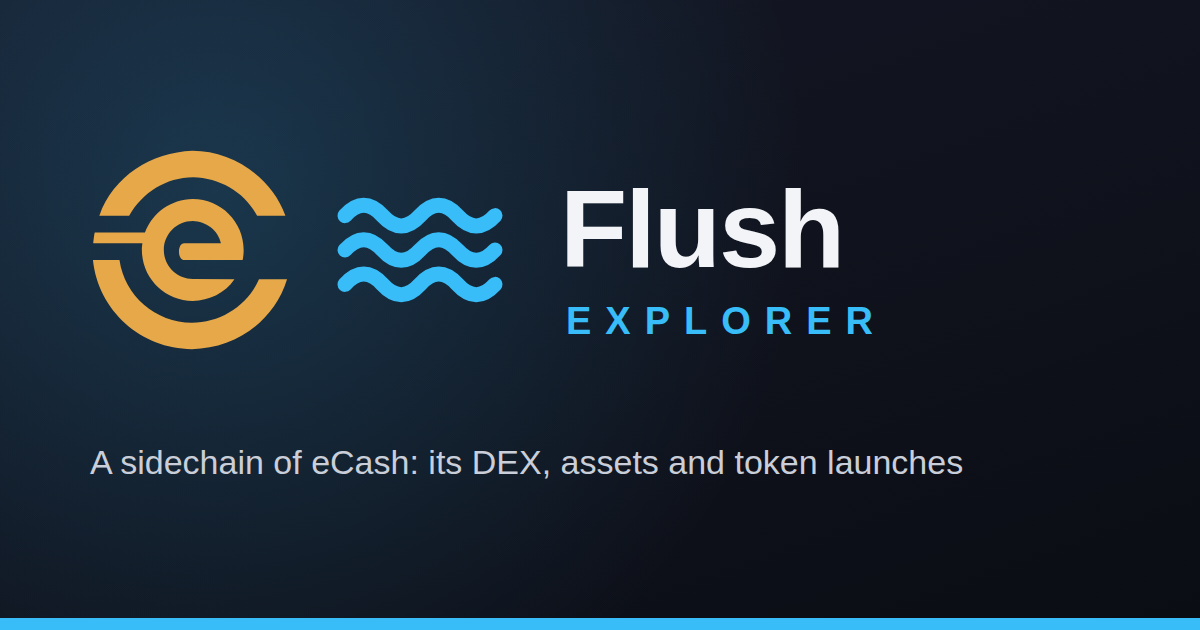
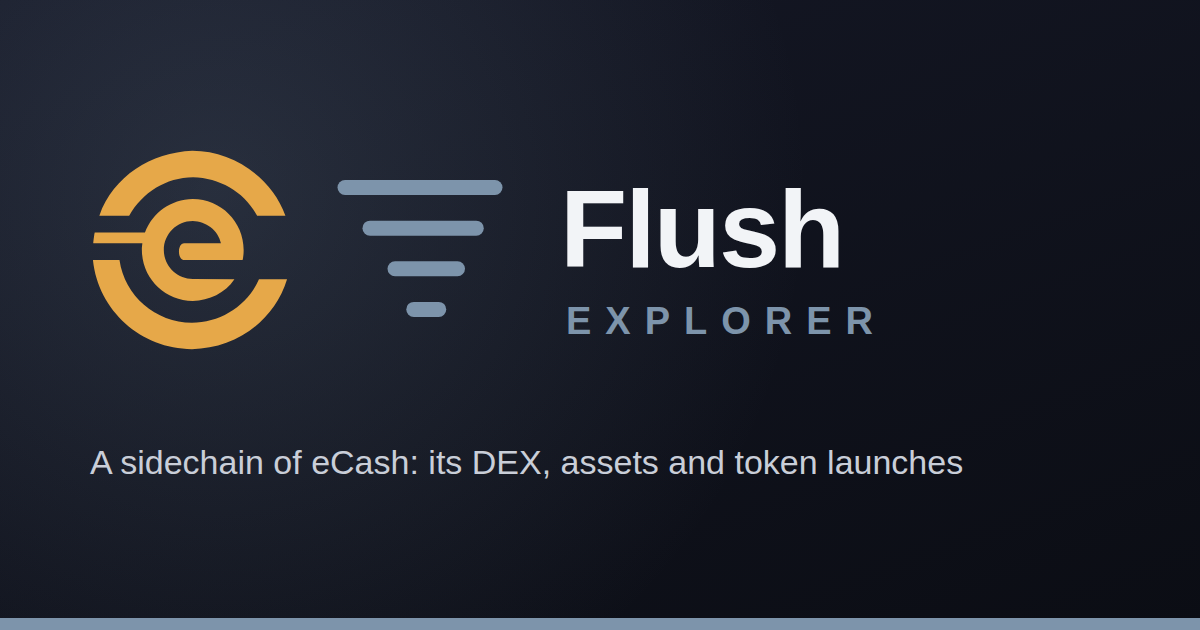
Flush: its own mark (the tornado) and brand colour
The mark of backbone-flush's chain.json (brand.mark, the "tornado": four
bars narrowing downward, as on flush.markets) and its brand blue-grey
#7d94ab, in place of the placeholders: logo, labels, charts, link preview.

Claude-Session: https://claude.ai/code/session_016ScJL4vwUZDmPaBe3oCFtx

Changed region(s): [[0.0, 0.9651, 1.0, 1.0], [0.2775, 0.2714, 0.4317, 0.5127], [0.4625, 0.4825, 0.74, 0.5429]]

diff --git a/frontend/src/app/chain/modules/flush/flush-charts.ts b/frontend/src/app/chain/modules/flush/flush-charts.ts
@@ -124,8 +124,8 @@ export class FlushCandlesComponent implements OnChanges {
         <div class="ya" [style.height.px]="height"><span>{{ fx.price(maxY) }}</span><span>{{ fx.price(maxY / 2) }}</span><span>0</span></div>
         <svg [attr.viewBox]="'0 0 ' + w + ' ' + height" preserveAspectRatio="none" [style.height.px]="height" role="img" [attr.aria-label]="'Bonding curve: ' + fx.pct(progress, 1) + ' of the way to graduation'">
           <line x1="0" [attr.y1]="height - 1" [attr.x2]="w" [attr.y2]="height - 1" stroke="#ffffff22" vector-effect="non-scaling-stroke"/>
-          <path [attr.d]="soldArea" fill="var(--chain-accent, #38bdf8)" fill-opacity="0.28"/>
-          <path [attr.d]="path" fill="none" stroke="var(--chain-accent, #38bdf8)" stroke-width="2.5" vector-effect="non-scaling-stroke"/>
+          <path [attr.d]="soldArea" fill="var(--chain-accent, #7d94ab)" fill-opacity="0.28"/>
+          <path [attr.d]="path" fill="none" stroke="var(--chain-accent, #7d94ab)" stroke-width="2.5" vector-effect="non-scaling-stroke"/>
           <line [attr.x1]="xNow" [attr.x2]="xNow" y1="0" [attr.y2]="height" stroke="var(--fg)" stroke-dasharray="4 4" stroke-width="1.2" vector-effect="non-scaling-stroke"/>
           <line [attr.x1]="0" [attr.x2]="w" [attr.y1]="yNow" [attr.y2]="yNow" stroke="var(--fg)" stroke-opacity="0.35" stroke-dasharray="2 4" stroke-width="1" vector-effect="non-scaling-stroke"/>
           @for (h of hits; track h.x) {<rect class="hit" [attr.x]="h.x" y="0" [attr.width]="h.w" [attr.height]="height"><title>{{ h.tip }}</title></rect>}
@@ -133,7 +133,7 @@ export class FlushCandlesComponent implements OnChanges {
       </div>
       <div class="xa"><span>0 tokens sold</span><span>{{ fx.compact(sale / 2) }}</span><span>{{ fx.compact(sale) }} sold: graduation</span></div>
       <div class="legend">
-        <span><i style="background: var(--chain-accent, #38bdf8)"></i>sold so far: <b>{{ fx.compact(sold) }}</b> tokens for <b>{{ fx.amount(raised, 2) }}</b> of {{ graduation | number }} ECX ({{ fx.pct(progress, 1) }})</span>
+        <span><i style="background: var(--chain-accent, #7d94ab)"></i>sold so far: <b>{{ fx.compact(sold) }}</b> tokens for <b>{{ fx.amount(raised, 2) }}</b> of {{ graduation | number }} ECX ({{ fx.pct(progress, 1) }})</span>
         <span>price now <b>{{ fx.price(priceNow) }}</b> ECX</span>
         <span>start <b>{{ fx.price(priceStart) }}</b> → at graduation <b>{{ fx.price(priceEnd) }}</b> ECX (×{{ (priceEnd / priceStart) | number:'1.0-1' }})</span>
         <span>market value of the supply at graduation <b>{{ fx.compact(priceEnd * supply) }}</b> ECX</span>
@@ -229,13 +229,13 @@ export class FlushCurveComponent implements OnChanges {
         <svg [attr.viewBox]="'0 0 ' + w + ' ' + height" preserveAspectRatio="none" [style.height.px]="height">
           <line x1="0" [attr.y1]="height - 1" [attr.x2]="w" [attr.y2]="height - 1" stroke="#ffffff22" vector-effect="non-scaling-stroke"/>
           @for (b of bars; track b.x) {
-            <rect [attr.x]="b.x" [attr.y]="b.y" [attr.width]="b.bw" [attr.height]="b.h" [attr.fill]="b.active ? 'var(--chain-accent, #38bdf8)' : '#7f8ba0'" [attr.fill-opacity]="b.active ? 0.85 : 0.55"><title>{{ b.tip }}</title></rect>
+            <rect [attr.x]="b.x" [attr.y]="b.y" [attr.width]="b.bw" [attr.height]="b.h" [attr.fill]="b.active ? 'var(--chain-accent, #7d94ab)' : '#7f8ba0'" [attr.fill-opacity]="b.active ? 0.85 : 0.55"><title>{{ b.tip }}</title></rect>
           }
           <line [attr.x1]="xNow" [attr.x2]="xNow" y1="0" [attr.y2]="height" stroke="var(--fg)" stroke-dasharray="4 4" stroke-width="1.2" vector-effect="non-scaling-stroke"><title>{{ nowTip }}</title></line>
         </svg>
       </div>
       <div class="xa"><span>{{ fx.price(pLeft) }}</span><span>{{ fx.price(pRight) }}</span></div>
-      <div class="legend"><span><i style="background: var(--chain-accent, #38bdf8)"></i>in range now</span><span>price now <b>{{ fx.price(pNow) }}</b> {{ unit }} (tick {{ tickNow }})</span><span>tick spacing {{ spacing }}</span><span>liquidity in range {{ fx.compact(lNow) }}</span></div>
+      <div class="legend"><span><i style="background: var(--chain-accent, #7d94ab)"></i>in range now</span><span>price now <b>{{ fx.price(pNow) }}</b> {{ unit }} (tick {{ tickNow }})</span><span>tick spacing {{ spacing }}</span><span>liquidity in range {{ fx.compact(lNow) }}</span></div>
     } @else {
       <p class="empty">No position provides liquidity in this pool.</p>
     }`,

diff --git a/frontend/src/app/chain/modules/flush/views/flush-widget.component.ts b/frontend/src/app/chain/modules/flush/views/flush-widget.component.ts
@@ -24,7 +24,7 @@ const REFRESH = 30000;
   styles: [`
     .kv { width: 100%; font-size: 0.85rem; margin: 0; td { padding: 3px 4px; vertical-align: middle; } td:first-child { color: var(--transparent-fg); } }
     .big-row { flex-wrap: wrap; }
-    .bar { height: 6px; border-radius: 3px; background: #ffffff10; overflow: hidden; min-width: 60px; .fill { height: 100%; background: var(--chain-accent, #38bdf8); } }
+    .bar { height: 6px; border-radius: 3px; background: #ffffff10; overflow: hidden; min-width: 60px; .fill { height: 100%; background: var(--chain-accent, #7d94ab); } }
     .rows { width: 100%; font-size: 0.85rem; td { padding: 3px 4px; vertical-align: middle; } }
     .muted { color: var(--transparent-fg); } .mono { font-family: monospace; } .pos { color: #3bd16f; } .neg { color: #ff6b6b; }
     .pill { display: inline-block; font-size: 0.7rem; padding: 0 7px; border-radius: 10px; background: #ffffff14; }

diff --git a/frontend/src/app/chain/marks.ts b/frontend/src/app/chain/marks.ts
@@ -38,11 +38,9 @@ export const SIDECHAIN_MARKS: Record<string, Pick<ChainProfile, 'mark' | 'markRe
   ] },
   freebank: { mark: ['M4 12 16 5l12 7', 'M6 12h20', 'M6 27h20', 'M9 14v9M14 14v9M18 14v9M23 14v9'] },
   // Flush: water, three waves (a placeholder until Flush has a mark of its own)
-  flush: { mark: [
-    'M4 10.5c2-2.2 4-2.2 6 0s4 2.2 6 0 4-2.2 6 0 4 2.2 6 0',
-    'M4 16c2-2.2 4-2.2 6 0s4 2.2 6 0 4-2.2 6 0 4 2.2 6 0',
-    'M4 21.5c2-2.2 4-2.2 6 0s4 2.2 6 0 4-2.2 6 0 4 2.2 6 0',
-  ] },
+  // Flush's own mark, the "tornado" (backbone-flush src/webui/app/src/chain/chain.json brand.mark;
+  // ~/skydoge/media/flush/mark/variants.json)
+  flush: { mark: ['M4 6h24', 'M8 12.5h17', 'M12 19h10', 'M15 25.5h4'] },
   coinshift: { mark: [
     'M7 16a9 9 0 0 1 15-6.7', 'M22 5v5h-5',
     'M25 16a9 9 0 0 1-15 6.7', 'M10 27v-5h5',

diff --git a/frontend/src/app/chain/modules/flush/pages/stake.pages.ts b/frontend/src/app/chain/modules/flush/pages/stake.pages.ts
@@ -30,7 +30,7 @@ export function keyColor(k: string): string {
     .strip .s.past { opacity: 0.35; } .strip .s.now { outline: 2px solid var(--fg); }
     .strip .s.banned { background: repeating-linear-gradient(45deg, #ff6b6b55, #ff6b6b55 3px, transparent 3px, transparent 6px); }
     .strip .s.none { background: #ffffff14; }
-    .share { display: flex; height: 12px; border-radius: 6px; overflow: hidden; background: #ffffff10; margin: 6px 0; .b { background: #f5b83d; } .v { background: var(--chain-accent, #38bdf8); } }
+    .share { display: flex; height: 12px; border-radius: 6px; overflow: hidden; background: #ffffff10; margin: 6px 0; .b { background: #f5b83d; } .v { background: var(--chain-accent, #7d94ab); } }
   `],
   template: `
   <div class="container-xl mp">

diff --git a/frontend/src/app/chain/modules/flush/flush-page.scss b/frontend/src/app/chain/modules/flush/flush-page.scss
@@ -7,7 +7,7 @@
   label { color: var(--transparent-fg); display: inline-flex; align-items: center; gap: 6px; margin: 0; } }
 .chips { display: flex; flex-wrap: wrap; gap: 4px; }
 .chip { font-size: 0.78rem; padding: 2px 10px; border-radius: 12px; background: #ffffff10; color: var(--transparent-fg); border: none; cursor: pointer;
-  &.on { background: color-mix(in srgb, var(--chain-accent, #38bdf8) 35%, transparent); color: var(--fg); } }
+  &.on { background: color-mix(in srgb, var(--chain-accent, #7d94ab) 35%, transparent); color: var(--fg); } }
 .pill { white-space: nowrap; }
 .pill.ok { background: color-mix(in srgb, #3bd16f 30%, transparent); }
 .pill.warn { background: color-mix(in srgb, #f5b83d 30%, transparent); }

diff --git a/frontend/src/app/chain/modules/flush/pages/dex.pages.ts b/frontend/src/app/chain/modules/flush/pages/dex.pages.ts
@@ -424,6 +424,6 @@ export class FlushTreasuryPage implements OnInit {
   series(t: FlushTreasury): ChartSeries[] {
     const by = (k: 'from_swaps' | 'from_launches', name: string, color: string): ChartSeries =>
       ({ name, color, points: t.inflows.map(i => [i.height, i[k]] as [number, number]) });
-    return [by('from_launches', 'from launches', 'var(--chain-accent, #38bdf8)'), by('from_swaps', 'from swaps', '#f5b83d')];
+    return [by('from_launches', 'from launches', 'var(--chain-accent, #7d94ab)'), by('from_swaps', 'from swaps', '#f5b83d')];
   }
 }

diff --git a/frontend/src/app/chain/modules/flush/index.ts b/frontend/src/app/chain/modules/flush/index.ts
@@ -20,7 +20,7 @@ const peg = () => import('./pages/peg.pages');
 const flush: ChainFrontendModule = {
   profile: {
     id: 'flush', kind: 'flush', name: 'Flush', tagline: 'Flush, tokens, assets and a DEX on a fast sidechain of eCash',
-    unit: 'ECX', subunit: 'sats', slot: 99, mainchain: false, color: '#38bdf8',
+    unit: 'ECX', subunit: 'sats', slot: 99, mainchain: false, color: '#7d94ab', // Flush's brand blue-grey (chain.json brand.color)
     ...SIDECHAIN_MARKS.flush,
     blockWeightUnits: 4000000,
   },

diff --git a/chains/previews.py b/chains/previews.py
@@ -14,7 +14,7 @@ CHAINS = {
     'bitassets': ('BitAssets', '#f5b83d', 'An asset sidechain of eCash', ['M6 9c0-2.2 4.5-4 10-4s10 1.8 10 4-4.5 4-10 4S6 11.2 6 9z', 'M6 9v14c0 2.2 4.5 4 10 4s10-1.8 10-4V9', 'M6 16c0 2.2 4.5 4 10 4s10-1.8 10-4'], []),
     'truthcoin': ('Truthcoin', '#7bd88f', 'A prediction market sidechain of eCash', ['M28 16a12 12 0 1 1-24 0 12 12 0 1 1 24 0', 'M10.5 16.5l3.5 3.5 7-7.5'], []),
     'zside': ('zSide', '#f26b9c', 'A shielded sidechain of eCash', ['M16 4l10 4v7c0 6-4 10.5-10 13-6-2.5-10-7-10-13V8z', 'M16 12a3 3 0 0 0-1 5.8V21h2v-3.2A3 3 0 0 0 16 12z'], []),
-    'flush': ('Flush', '#38bdf8', 'A sidechain of eCash: its DEX, assets and token launches', ['M4 10.5c2-2.2 4-2.2 6 0s4 2.2 6 0 4-2.2 6 0 4 2.2 6 0', 'M4 16c2-2.2 4-2.2 6 0s4 2.2 6 0 4-2.2 6 0 4 2.2 6 0', 'M4 21.5c2-2.2 4-2.2 6 0s4 2.2 6 0 4-2.2 6 0 4 2.2 6 0'], []),
+    'flush': ('Flush', '#7d94ab', 'A sidechain of eCash: its DEX, assets and token launches', ['M4 6h24', 'M8 12.5h17', 'M12 19h10', 'M15 25.5h4'], []),
     'coinshift': ('Coinshift', '#ff8a3d', 'A swap sidechain of eCash', ['M7 16a9 9 0 0 1 15-6.7', 'M22 5v5h-5', 'M25 16a9 9 0 0 1-15 6.7', 'M10 27v-5h5'], []),
 }
 
